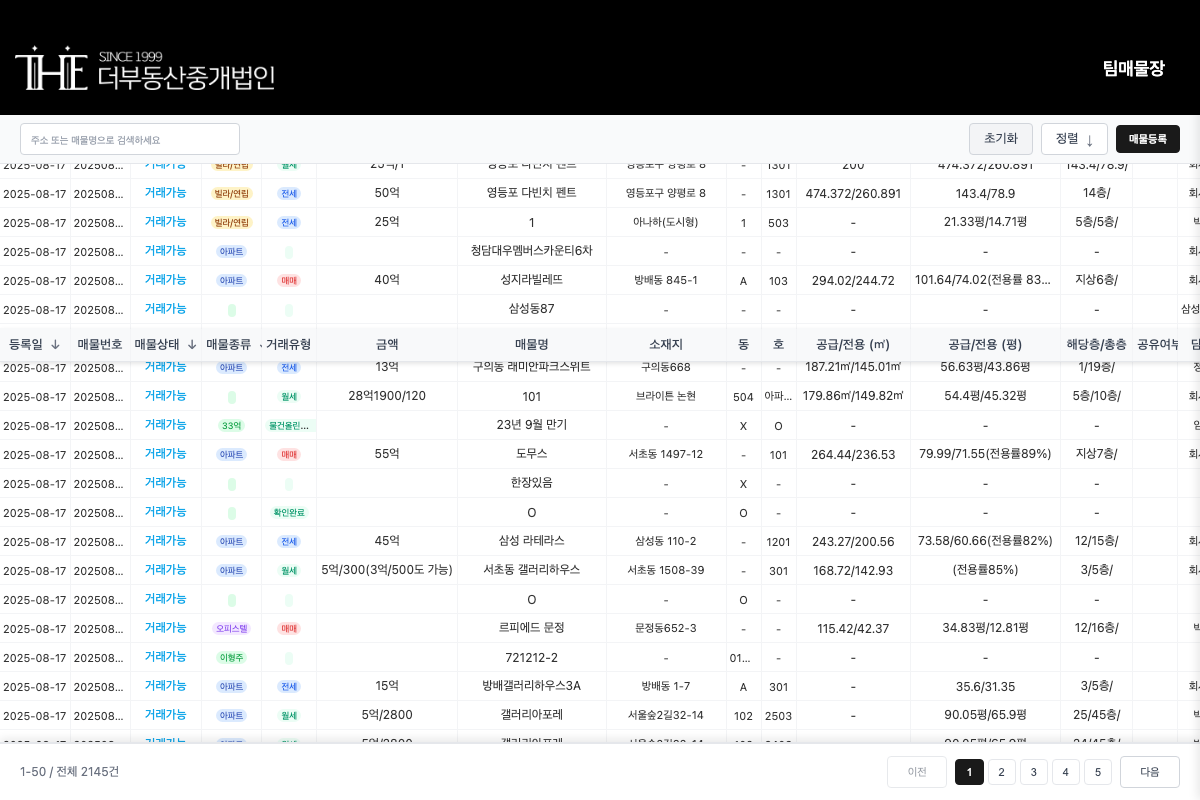
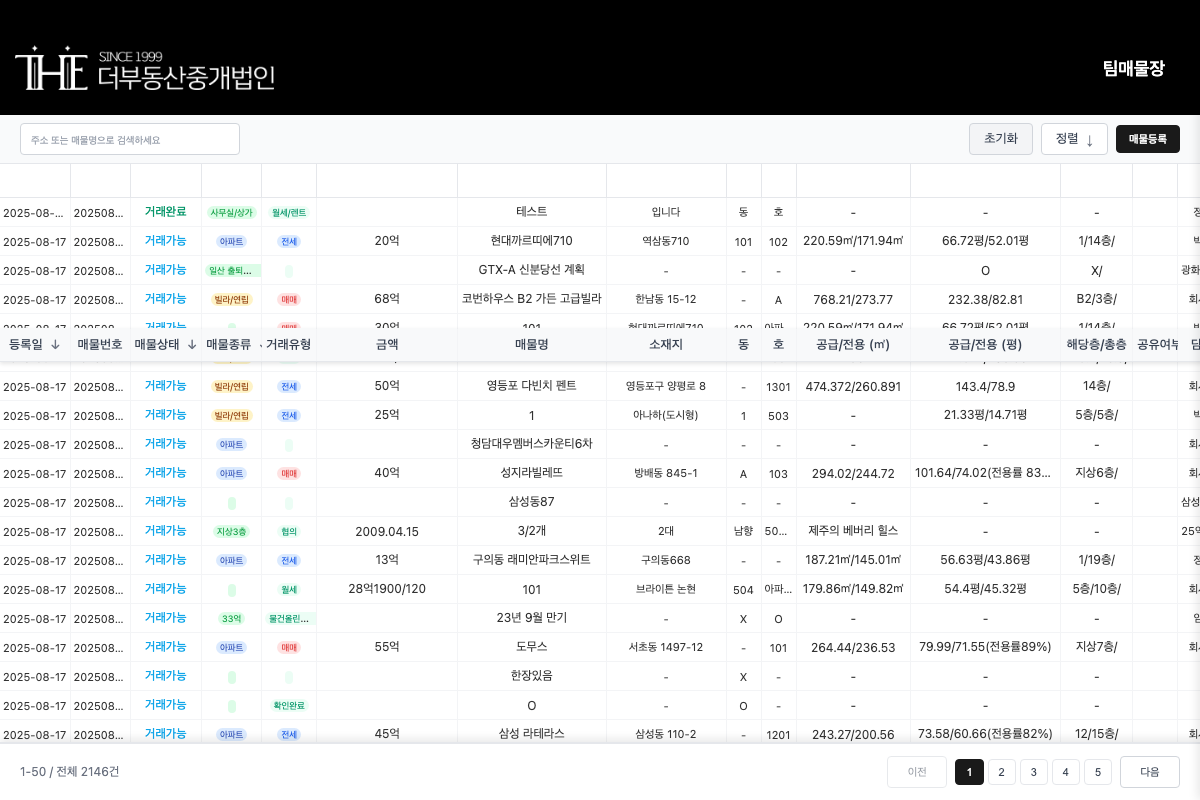
fix: 테이블 헤더를 position:fixed로 강제 상단 고정
문제 원인:
- TBODY가 THEAD보다 위에 렌더링되는 비정상적 현상 발견
- position:sticky가 원래 위치(328px)에서 작동하여 중앙에 표시됨

해결 방법:
- THEAD를 position:fixed로 필터바 바로 아래 강제 고정
- TBODY에 padding-top 추가하여 THEAD 공간 확보
- 스크롤 시 그림자 효과 추가

🤖 Generated with [Claude Code](https://claude.ai/code)

diff --git a/playwright-report/index.html b/playwright-report/index.html
@@ -74,4 +74,4 @@ Error generating stack: `+u.message+`
   </body>
 </html>
 <script>
[2 lines of base64/hex data omitted]

diff --git a/tests/analyze-real-problem.spec.js b/tests/analyze-real-problem.spec.js
@@ -1,0 +1,111 @@
+import { test, expect } from '@playwright/test';
+
+test('실제 문제 분석', async ({ page }) => {
+  console.log('🔍 실제 문제 분석 시작');
+  
+  await page.setViewportSize({ width: 1200, height: 800 });
+  await page.goto('https://gma3561.github.io/The-realty_hasia/');
+  await page.waitForTimeout(5000);
+  
+  // 모든 요소의 위치와 크기 측정
+  const analysis = await page.evaluate(() => {
+    const header = document.querySelector('.header');
+    const filterBar = document.querySelector('.filter-bar');
+    const tableContainer = document.querySelector('.table-container');
+    const table = document.querySelector('.data-table');
+    const thead = document.querySelector('.data-table thead');
+    const tbody = document.querySelector('.data-table tbody');
+    const firstRow = document.querySelector('.data-table tbody tr');
+    
+    function getInfo(element, name) {
+      if (!element) return { name, exists: false };
+      
+      const rect = element.getBoundingClientRect();
+      const style = window.getComputedStyle(element);
+      
+      return {
+        name,
+        exists: true,
+        rect: { x: rect.x, y: rect.y, width: rect.width, height: rect.height },
+        position: style.position,
+        top: style.top,
+        marginTop: style.marginTop,
+        paddingTop: style.paddingTop,
+        overflow: style.overflow,
+        overflowY: style.overflowY,
+        display: style.display,
+        height: style.height
+      };
+    }
+    
+    // 실제 공백 분석
+    const headerBottom = header ? header.getBoundingClientRect().bottom : 0;
+    const filterBottom = filterBar ? filterBar.getBoundingClientRect().bottom : 0;
+    const theadTop = thead ? thead.getBoundingClientRect().top : 0;
+    
+    return {
+      header: getInfo(header, 'header'),
+      filterBar: getInfo(filterBar, 'filter-bar'),
+      tableContainer: getInfo(tableContainer, 'table-container'),
+      table: getInfo(table, 'table'),
+      thead: getInfo(thead, 'thead'),
+      tbody: getInfo(tbody, 'tbody'),
+      firstRow: getInfo(firstRow, 'first-row'),
+      gaps: {
+        headerToFilter: filterBar && header ? filterBar.getBoundingClientRect().top - headerBottom : null,
+        filterToThead: thead && filterBar ? theadTop - filterBottom : null,
+        headerToThead: thead && header ? theadTop - headerBottom : null,
+        totalGap: theadTop - headerBottom
+      }
+    };
+  });
+  
+  console.log('=== 요소별 상세 정보 ===');
+  console.log(JSON.stringify(analysis, null, 2));
+  
+  // 문제 진단
+  console.log('\n=== 문제 진단 ===');
+  console.log(`헤더 높이: ${analysis.header.rect.height}px`);
+  console.log(`필터바 높이: ${analysis.filterBar.rect.height}px`);
+  console.log(`헤더+필터바 총 높이: ${analysis.header.rect.height + analysis.filterBar.rect.height}px`);
+  console.log(`테이블 헤더 Y 위치: ${analysis.thead.rect.y}px`);
+  console.log(`실제 간격: ${analysis.gaps.totalGap}px`);
+  
+  if (analysis.gaps.filterToThead > 10) {
+    console.log(`❌ 문제 발견: 필터바와 테이블 헤더 사이에 ${analysis.gaps.filterToThead}px의 불필요한 간격이 있습니다!`);
+  }
+  
+  // CSS 규칙 확인
+  const cssRules = await page.evaluate(() => {
+    const styles = Array.from(document.styleSheets);
+    const tableRules = [];
+    
+    for (const sheet of styles) {
+      try {
+        const rules = Array.from(sheet.cssRules || []);
+        for (const rule of rules) {
+          if (rule.selectorText && (
+            rule.selectorText.includes('.table-container') ||
+            rule.selectorText.includes('.data-table') ||
+            rule.selectorText.includes('thead')
+          )) {
+            tableRules.push({
+              selector: rule.selectorText,
+              styles: rule.style.cssText
+            });
+          }
+        }
+      } catch(e) {
+        // CORS 에러 무시
+      }
+    }
+    return tableRules;
+  });
+  
+  console.log('\n=== 관련 CSS 규칙 ===');
+  cssRules.forEach(rule => {
+    if (rule.styles.includes('margin') || rule.styles.includes('padding') || rule.styles.includes('top')) {
+      console.log(`${rule.selector}: ${rule.styles}`);
+    }
+  });
+});

diff --git a/index.html b/index.html
@@ -582,28 +582,40 @@
         // 테이블 헤더 위치 동적 조정
         function adjustTableHeaderPosition() {
             const thead = document.querySelector('.data-table thead');
-            if (!thead) return;
+            const tbody = document.querySelector('.data-table tbody');
+            const tableContainer = document.querySelector('.table-container');
             
-            const isMobile = window.innerWidth <= 768;
-            const topValue = isMobile ? '84px' : '115px'; // 앱 헤더 바로 아래
-            const marginTop = '0px'; // 마진 조정 제거
+            if (!thead || !tbody || !tableContainer) return;
             
-            // 테이블 헤더 스타일 설정
-            thead.style.position = 'sticky';
-            thead.style.top = topValue;
-            thead.style.zIndex = '50';
+            // 필터바 아래 위치 계산
+            const filterBar = document.querySelector('.filter-bar');
+            const filterBottom = filterBar ? filterBar.getBoundingClientRect().bottom : 164;
+            
+            // THEAD를 테이블 컨테이너 최상단에 고정
+            thead.style.position = 'fixed';
+            thead.style.top = `${filterBottom}px`;
+            thead.style.left = '0';
+            thead.style.right = '0';
+            thead.style.zIndex = '90';
             thead.style.background = '#f8f9fa';
+            thead.style.width = '100%';
             
-            // 테이블 전체를 위로 올려서 헤더가 필터 바 바로 아래에 오도록 조정
-            const table = document.querySelector('.data-table');
-            if (table) {
-                table.style.marginTop = marginTop;
-                console.log(`테이블 margin-top 설정: ${marginTop}`);
-            } else {
-                console.log('테이블 요소를 찾을 수 없음');
-            }
+            // TBODY에 padding-top 추가하여 THEAD 공간 확보
+            const theadHeight = thead.offsetHeight || 34;
+            tbody.style.display = 'block';
+            tbody.style.paddingTop = `${theadHeight}px`;
             
-            console.log(`테이블 헤더 위치 조정: ${topValue} (모바일: ${isMobile})`);
+            // 테이블 컨테이너 스크롤 시 THEAD 위치 조정
+            tableContainer.addEventListener('scroll', () => {
+                const scrollTop = tableContainer.scrollTop;
+                if (scrollTop > 0) {
+                    thead.style.boxShadow = '0 2px 4px rgba(0,0,0,0.1)';
+                } else {
+                    thead.style.boxShadow = 'none';
+                }
+            });
+            
+            console.log(`테이블 헤더 fixed 위치: ${filterBottom}px`);
         }
         
         // 페이지 로드 시 실행

diff --git a/tests/check-table-structure.spec.js b/tests/check-table-structure.spec.js
@@ -1,0 +1,68 @@
+import { test, expect } from '@playwright/test';
+
+test('테이블 구조 확인', async ({ page }) => {
+  console.log('🔍 테이블 구조 확인');
+  
+  await page.setViewportSize({ width: 1200, height: 800 });
+  await page.goto('https://gma3561.github.io/The-realty_hasia/');
+  await page.waitForTimeout(5000);
+  
+  // 테이블 내부 구조 확인
+  const tableStructure = await page.evaluate(() => {
+    const table = document.querySelector('.data-table');
+    if (!table) return null;
+    
+    const children = Array.from(table.children);
+    const structure = children.map((child, index) => {
+      const rect = child.getBoundingClientRect();
+      const style = window.getComputedStyle(child);
+      
+      return {
+        index,
+        tagName: child.tagName,
+        className: child.className,
+        position: style.position,
+        display: style.display,
+        rect: { y: rect.y, height: rect.height },
+        childrenCount: child.children.length
+      };
+    });
+    
+    // innerHTML 확인
+    const tableHTML = table.outerHTML.substring(0, 500);
+    
+    return {
+      structure,
+      tableHTML,
+      theadFirst: table.firstElementChild?.tagName === 'THEAD'
+    };
+  });
+  
+  console.log('테이블 자식 요소들:');
+  tableStructure.structure.forEach(child => {
+    console.log(`  ${child.index}: ${child.tagName} - Y: ${child.rect.y}, Height: ${child.rect.height}`);
+  });
+  
+  console.log('\nHTML 구조 (첫 500자):');
+  console.log(tableStructure.tableHTML);
+  
+  console.log(`\nTHEAD가 첫 번째 자식인가? ${tableStructure.theadFirst}`);
+  
+  // 동적으로 생성되는 요소 확인
+  const dynamicElements = await page.evaluate(() => {
+    const tbody = document.querySelector('.data-table tbody');
+    const thead = document.querySelector('.data-table thead');
+    
+    return {
+      tbodyRows: tbody ? tbody.children.length : 0,
+      theadRows: thead ? thead.children.length : 0,
+      tbodyFirst: tbody ? tbody.firstElementChild?.outerHTML.substring(0, 200) : null,
+      theadContent: thead ? thead.innerHTML.substring(0, 200) : null
+    };
+  });
+  
+  console.log('\n동적 생성 요소:');
+  console.log(`TBODY 행 수: ${dynamicElements.tbodyRows}`);
+  console.log(`THEAD 행 수: ${dynamicElements.theadRows}`);
+  console.log(`TBODY 첫 행: ${dynamicElements.tbodyFirst}`);
+});
